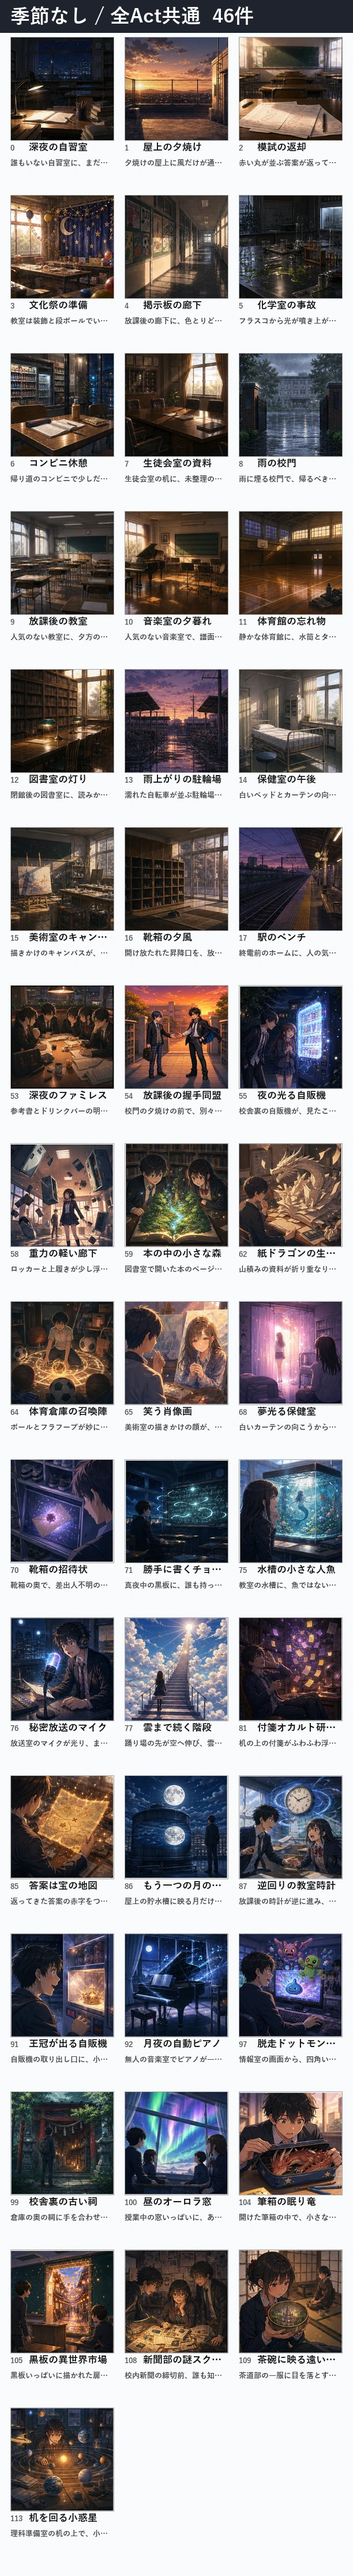
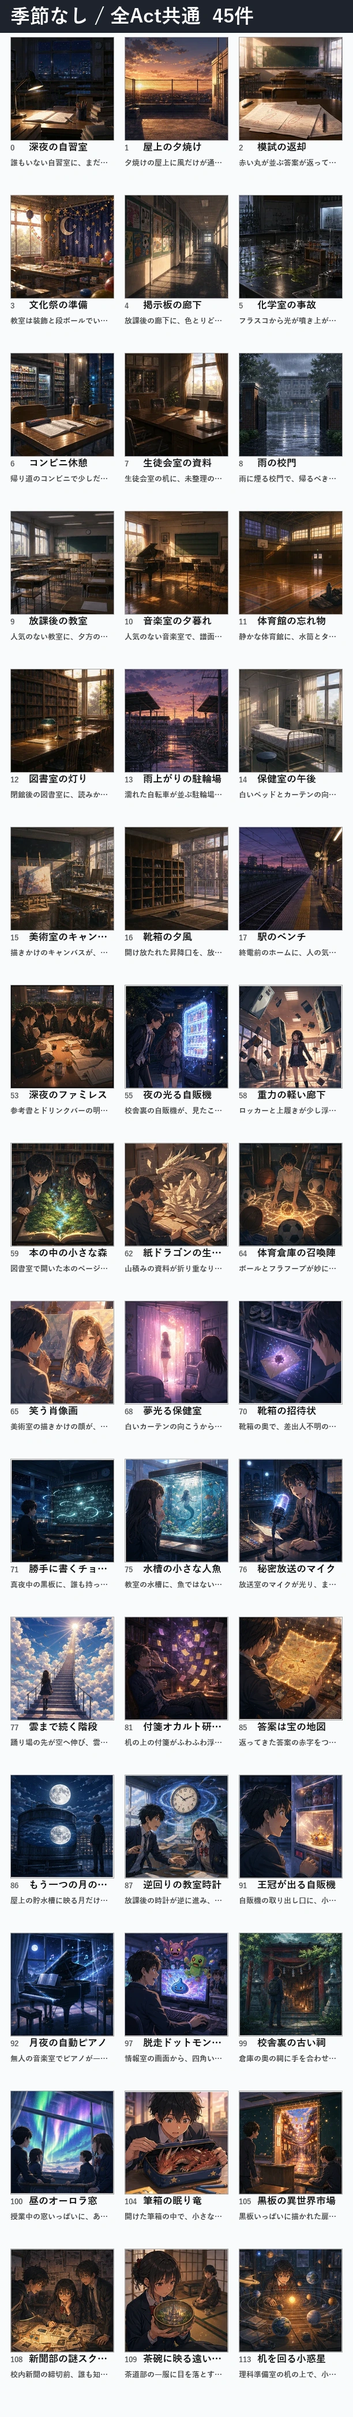
Exclude starter event from high school event pool

diff --git a/src/data/visualThemes.ts b/src/data/visualThemes.ts
@@ -687,7 +687,7 @@ export const HIGH_SCHOOL_EVENT_THEMES: HighSchoolEventTheme[] = [
 
 const HIGH_SCHOOL_NEUTRAL_EVENT_INDICES = [
   0, 1, 2, 3, 4, 5, 6, 7, 8, 9, 10, 11, 12, 13, 14, 15, 16, 17, 53,
-  54, 55, 58, 59, 62, 64, 65, 68, 70, 71, 75, 76, 77, 81, 85, 86, 87, 91, 92, 97, 99, 100, 104, 105, 108, 109, 113,
+  55, 58, 59, 62, 64, 65, 68, 70, 71, 75, 76, 77, 81, 85, 86, 87, 91, 92, 97, 99, 100, 104, 105, 108, 109, 113,
 ];
 const HIGH_SCHOOL_SPRING_EVENT_INDICES = [18, 19, 20, 21, 22, 23, 24, 25, 26, 56, 61, 73, 74, 82, 89, 93, 95, 98, 101, 111];
 const HIGH_SCHOOL_SUMMER_EVENT_INDICES = [27, 28, 29, 30, 31, 32, 33, 34, 35, 57, 60, 63, 67, 69, 72, 78, 80, 83, 90, 94, 96, 102, 106, 107, 110, 112];
